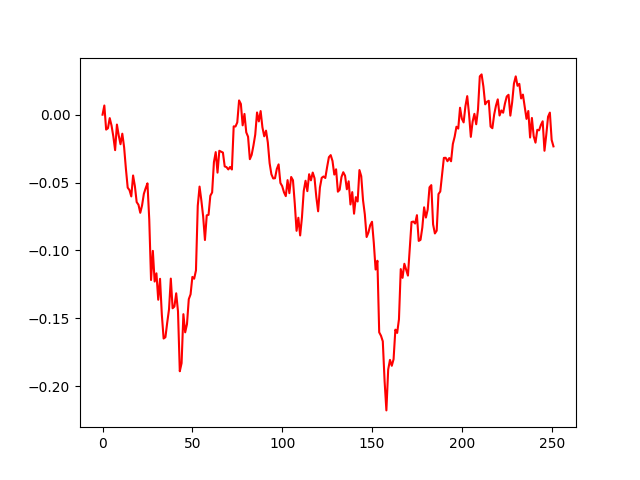
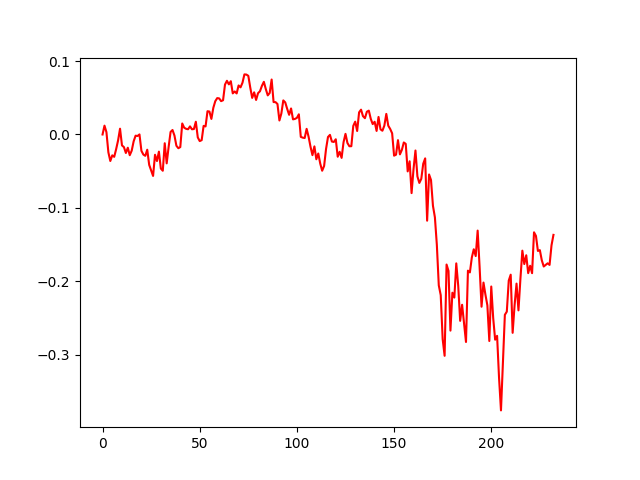
minor adaptations for testruns

diff --git a/finrl/batch_runs.py b/finrl/batch_runs.py
@@ -2,6 +2,12 @@ import os, json, shutil, datetime, argparse
 import numpy as np
 import pandas as pd
 from openpyxl import load_workbook
+import matplotlib as mpl
+mpl.use("Agg")
+import matplotlib.pyplot as plt
+import matplotlib.ticker as mtick
+from finrl.meta.data_processor import DataProcessor
+
 
 from finrl.meta.env_stock_trading.env_stocktrading_np_test import DailyTradingTestEnv
 from finrl.meta.env_stock_trading.env_stocktrading_np_train import DailyTradingTrainEnv
@@ -88,7 +94,6 @@ def _pick_env_and_dates(task: str, freq: str, dataset: str):
             s_test, e_test = BEAR2008_TEST_START_DATE, BEAR2008_TEST_END_DATE
         else:
             raise ValueError("Use 'stable' or 'crisis' or 'bear'")
-
     if task == "trading":
         if freq == "intraday":
             env_train, env_test = IntradayTradingTrainEnv, IntradayTradingTestEnv
@@ -117,47 +122,46 @@ def _pick_env_and_dates(task: str, freq: str, dataset: str):
         env_extra_test = {**env_extra_train, "if_train": False}
     else:
         raise ValueError("task ∈ {'trading','allocation'}")
-
     return env_train, env_test, interval, s_train, e_train, s_test, e_test, env_extra_train, env_extra_test
 
 def run_once(run_idx: int, series_dir: str, model_name: str, series_tag: str,
              task: str, freq: str, dataset: str, log_file: str):
     erl_params = ERL_FIXED_PARAMS.copy()
     erl_params["seed"] += run_idx
-
     env_train, env_test, interval, s_train, e_train, s_test, e_test, env_extra_train, env_extra_test = \
         _pick_env_and_dates(task, freq, dataset)
-
     cwd = os.path.join(series_dir, f"trial_{run_idx:03d}")
     os.makedirs(cwd, exist_ok=True)
-
     with open(os.path.join(cwd, "params.json"), "w") as f:
         json.dump({
             "erl": erl_params,
             "task": task, "freq": freq, "dataset": dataset,
             "interval": interval,
-            "dates": dict(train=(s_train, e_train), test=(s_test, e_test))
+            "dates": dict(train=(s_train, e_train), test=(s_test, e_test)),
+            "series": series_tag
         }, f, indent=2)
+
+    tickers = _filter_tickers_intersection(
+        DOW_30_TICKER, "yahoofinance", interval, s_train, e_train, s_test, e_test
+    )
 
     train(
         start_date=s_train, end_date=e_train,
-        ticker_list=DOW_30_TICKER, data_source="yahoofinance",
+        ticker_list=tickers, data_source="yahoofinance",
         time_interval=interval, technical_indicator_list=INDICATORS,
         drl_lib="elegantrl", env=env_train, model_name=model_name,
-        cwd=cwd, erl_params=erl_params, break_step=BREAK_STEP,
+        cwd=cwd, erl_params=erl_params, break_step=1e5,
         env_extra=env_extra_train,
     )
-
     assets, sharpe, cagr, agent_vs_bnh, ann_vol, bnh_ann_vol, max_dd, bnh_max_dd = test(
         start_date=s_test, end_date=e_test,
-        ticker_list=DOW_30_TICKER, data_source="yahoofinance",
+        ticker_list=tickers, data_source="yahoofinance",
         time_interval=interval, technical_indicator_list=INDICATORS,
         drl_lib="elegantrl", env=env_test, model_name=model_name,
         cwd=cwd, net_dimension=erl_params["net_dimension"],
         env_extra=env_extra_test,
     )
     ret = assets[-1] / assets[0] - 1
-
     append_log({
         "timestamp": datetime.datetime.now().isoformat(timespec="seconds"),
         "series":    series_tag,
@@ -176,14 +180,127 @@ def run_once(run_idx: int, series_dir: str, model_name: str, series_tag: str,
             "task": task, "freq": freq, "dataset": dataset
         })
     }, log_file)
-
     best_runs.append((ret, sharpe, cwd))
     best_runs.sort(key=lambda t: t[0], reverse=True)
     while len(best_runs) > TOP_K:
         _, _, path_to_del = best_runs.pop()
         shutil.rmtree(path_to_del, ignore_errors=True)
-
     return ret, sharpe
+
+def _is_intraday(freq: str) -> bool:
+    return freq == "intraday"
+
+def _stack_curves(series_dir: str):
+    assets, bnhs = [], []
+    trials = sorted([d for d in os.listdir(series_dir) if d.startswith("trial_")])
+    for t in trials:
+        p_assets = os.path.join(series_dir, t, "assets.npy")
+        p_bnh    = os.path.join(series_dir, t, "bnh.npy")
+        if os.path.isfile(p_assets) and os.path.isfile(p_bnh):
+            a = np.load(p_assets)
+            b = np.load(p_bnh)
+            n = min(len(a), len(b))
+            assets.append(a[:n])
+            bnhs.append(b[:n])
+    if not assets:
+        return None, None
+    L = min(map(len, assets))
+    assets = np.stack([x[:L] for x in assets], axis=0)
+    bnh    = np.median(np.stack([x[:L] for x in bnhs], axis=0), axis=0)
+    return assets, bnh
+
+def _aggregate_equity(curves: np.ndarray, intraday: bool, start_date: str):
+    norm = curves / curves[:, [0]]
+    mean = norm.mean(axis=0)
+    median = np.median(norm, axis=0)
+    p10, p90 = np.percentile(norm, [10, 90], axis=0)
+    n = mean.shape[0]
+    if intraday:
+        x = np.arange(n)
+    else:
+        x = pd.bdate_range(start=start_date, periods=n)
+    return x, mean, median, p10, p90
+
+def _plot_equity_band(curves: np.ndarray, ref_curve: np.ndarray, path: str,
+                      intraday: bool, start_date: str):
+    x, mean, median, p10, p90 = _aggregate_equity(curves, intraday, start_date)
+    fig, ax = plt.subplots(figsize=(10, 6), dpi=150)
+    ax.fill_between(x, p10, p90, alpha=0.25, label="10–90%")
+    ax.plot(x, mean, linewidth=1.8, label="Mean")
+    ax.plot(x, median, linewidth=1.2, linestyle="--", label="Median")
+    ref = ref_curve / ref_curve[0]
+    if len(ref) != len(mean):
+        ref = ref[:len(mean)]
+    ax.plot(x, ref, linewidth=1.2, linestyle=":", label="Buy & Hold")
+    ax.set_xlabel("Step" if intraday else "Date")
+    ax.set_ylabel("Cumulative return")
+    ax.yaxis.set_major_formatter(mtick.PercentFormatter(1.0))
+    if not intraday:
+        ax.set_xlim(x[0], x[-1])
+        fig.autofmt_xdate()
+    ax.grid(True, which="major", linestyle="--", alpha=0.6)
+    ax.legend()
+    plt.tight_layout()
+    plt.savefig(path, bbox_inches="tight")
+    plt.close(fig)
+
+def _summarise_metrics_from_curves(curves: np.ndarray, ref_curve: np.ndarray, intraday: bool):
+    rows = []
+    steps_per_year = 252 if not intraday else 252*390
+    for a in curves:
+        n = min(len(a), len(ref_curve))
+        a = a[:n].astype(float)
+        b = ref_curve[:n].astype(float)
+        ret = a[-1]/a[0] - 1.0
+        rets = np.diff(a)/a[:-1]
+        vol = rets.std(ddof=0) * np.sqrt(steps_per_year) if rets.size else np.nan
+        cagr = (a[-1]/a[0])**(steps_per_year/max(1, rets.size)) - 1 if rets.size else np.nan
+        mdd = (a/np.maximum.accumulate(a) - 1).min()
+        bret = b[-1]/b[0]
+        alpha = a[-1]/(a[0]*bret) - 1
+        rf = 0.0
+        sharpe = ((rets.mean() - rf/steps_per_year) / rets.std(ddof=1) * np.sqrt(steps_per_year)) if rets.std(ddof=1) > 0 else np.nan
+        rows.append((ret, cagr, vol, mdd, sharpe, alpha))
+    df = pd.DataFrame(rows, columns=["EpisodeReturn", "CAGR", "AnnVol", "MaxDD", "Sharpe", "Alpha_vs_BnH"])
+    return df
+
+def _filter_tickers_intersection(tickers, data_source, interval, s_train, e_train, s_test, e_test):
+    dp = DataProcessor(data_source)
+    df_tr = dp.clean_data(dp.download_data(tickers, s_train, e_train, interval))
+    df_te = dp.clean_data(dp.download_data(tickers, s_test,  e_test,  interval))
+    have_tr = set(df_tr["tic"].unique())
+    have_te = set(df_te["tic"].unique())
+    keep = [t for t in tickers if t in have_tr and t in have_te]
+    return keep
+
+def _print_agg_table(df: pd.DataFrame):
+    cols = ["EpisodeReturn","CAGR","AnnVol","MaxDD","Sharpe","Alpha_vs_BnH"]
+    mean = df[cols].mean()
+    std  = df[cols].std(ddof=0)
+    widths = {c: max(len(c), 12) for c in cols}
+    header = " | ".join([c.ljust(widths[c]) for c in cols])
+    sep = "-+-".join(["-"*widths[c] for c in cols])
+    print("\n=== Aggregate metrics (mean ± std) ===")
+    print(header)
+    print(sep)
+    row = " | ".join([f"{mean[c]:.6f} ± {std[c]:.6f}".ljust(widths[c]) for c in cols])
+    print(row)
+
+
+def aggregate_and_plot(series_dir: str, freq: str, start_date_daily: str, out_prefix: str):
+    curves, bnh = _stack_curves(series_dir)
+    if curves is None:
+        print("No trials found for aggregation.")
+        return
+    intraday = _is_intraday(freq)
+    _plot_equity_band(curves, bnh, os.path.join(series_dir, f"{out_prefix}_EquityBand.jpg"),
+                      intraday, start_date_daily)
+    df = _summarise_metrics_from_curves(curves, bnh, intraday)
+    df.to_csv(os.path.join(series_dir, f"{out_prefix}_metrics_all.csv"), index=False)
+    desc = df.describe()
+    desc.to_csv(os.path.join(series_dir, f"{out_prefix}_metrics_desc.csv"), index=True)
+    _print_agg_table(df)
+
 
 if __name__ == "__main__":
     parser = argparse.ArgumentParser()
@@ -193,24 +310,38 @@ if __name__ == "__main__":
     parser.add_argument("--task", choices=["trading", "allocation"], default="trading")
     parser.add_argument("--freq", choices=["daily", "intraday"], default="daily")
     parser.add_argument("--dataset", choices=["stable", "crisis", "intraday", "bear"], default="stable")
+    parser.add_argument("--aggregate_only", action="store_true")
     args = parser.parse_args()
 
     LOG_FILE = f"fixed_{args.task}_{args.freq}_{args.dataset}.xlsx"
-    series_tag = f"FIXED_{args.model}_{args.task}_{args.freq}_{args.dataset}_{args.runs}runs_{args.note}"
+    series_tag = f"FIXED_{args.model}_{args.task}_{args.freq}_{args.dataset}_runs_{args.note}"
     series_dir = os.path.join("fixed_runs", series_tag)
     os.makedirs(series_dir, exist_ok=True)
-    init_log(series_tag, LOG_FILE)
+    if not args.aggregate_only:
+        init_log(series_tag, LOG_FILE)
+        returns, sharpes = [], []
+        for i in range(args.runs):
+            r, s = run_once(i, series_dir, args.model, series_tag, args.task, args.freq, args.dataset, LOG_FILE)
+            returns.append(r)
+            sharpes.append(s)
+            print(f"[Run {i:02d}] Return={r:.4f}  Sharpe={s:.4f}")
+        print("\n=== Aggregate results ===")
+        print(f"avg Return = {sum(returns)/len(returns):.4f}")
+        print(f"std Return = {np.std(returns):.4f}")
+        print(f"avg Sharpe = {sum(sharpes)/len(sharpes):.4f}")
+        print(f"std Sharpe = {np.std(sharpes):.4f}")
+        print(f"\n→ Saved to {LOG_FILE}")
+    aggregate_and_plot(
+        series_dir=series_dir,
+        freq=args.freq,
+        start_date_daily=TEST_START_DATE,
+        out_prefix="series"
+    )
 
-    returns, sharpes = [], []
-    for i in range(args.runs):
-        r, s = run_once(i, series_dir, args.model, series_tag, args.task, args.freq, args.dataset, LOG_FILE)
-        returns.append(r)
-        sharpes.append(s)
-        print(f"[Run {i:02d}] Return={r:.4f}  Sharpe={s:.4f}")
+"""
+python -m  finrl.batch_runs --runs 20 --model ppo --task trading --freq daily --dataset stable
 
-    print("\n=== Aggregate results ===")
-    print(f"avg Return = {sum(returns)/len(returns):.4f}")
-    print(f"std Return = {np.std(returns):.4f}")
-    print(f"avg Sharpe = {sum(sharpes)/len(sharpes):.4f}")
-    print(f"std Sharpe = {np.std(sharpes):.4f}")
-    print(f"\n→ Saved to {LOG_FILE}")
+with drawing:
+python -m  finrl.batch_runs --model ppo --task trading --freq daily --dataset stable --aggregate_only
+
+"""

diff --git a/finrl/test.py b/finrl/test.py
@@ -199,13 +199,13 @@ def test(
 
         # ---------- Agent  ----------
         daily_ret = np.diff(assets) / assets[:-1]
-        steps_per_year = 252 if not intraday else int(
-            252 * max(1, 390 // int(getattr(env_instance, "rebalance_every", 1))))
-        ann_vol = daily_ret.std(ddof=0) * np.sqrt(steps_per_year)
+        steps_per_year = 252 if not intraday else 252 * 390
+        sigma = daily_ret.std(ddof=1)
+        ann_vol = sigma * np.sqrt(steps_per_year) if sigma > 0 else np.nan
         cagr = (assets[-1] / assets[0]) ** (steps_per_year / max(1, len(daily_ret))) - 1
         max_dd = (assets / np.maximum.accumulate(assets) - 1).min()
         rf = 0.0
-        sharpe = (daily_ret.mean() - rf / steps_per_year) / daily_ret.std(ddof=1) * np.sqrt(steps_per_year) if daily_ret.std(ddof=1) > 0 else np.nan
+        sharpe = ((daily_ret.mean() - rf/steps_per_year) / sigma) * np.sqrt(steps_per_year) if sigma > 0 else np.nan
 
         # ----------  BnH ----------
         bnh_daily_ret = np.diff(bnh_curve) / bnh_curve[:-1]
@@ -227,6 +227,9 @@ def test(
             bnh_curve = bnh_curve[:n]
             assets = assets[:n]
 
+        np.save(os.path.join(cwd, "assets.npy"), assets.astype(float))
+        np.save(os.path.join(cwd, "bnh.npy"), bnh_curve.astype(float))
+
         save_equity_curve(
             agent_curve=assets,
             ref_curve=bnh_curve,
@@ -235,7 +238,7 @@ def test(
             intraday=intraday
         )
 
-        return episode_total_assets, (cagr / ann_vol if ann_vol else np.nan), cagr, alpha_pct, ann_vol, bnh_ann_vol, max_dd, bnh_max_dd
+        return episode_total_assets, sharpe, cagr, alpha_pct, ann_vol, bnh_ann_vol, max_dd, bnh_max_dd
 
     elif drl_lib == "rllib":
         from finrl.agents.rllib.models import DRLAgent as DRLAgent_rllib
